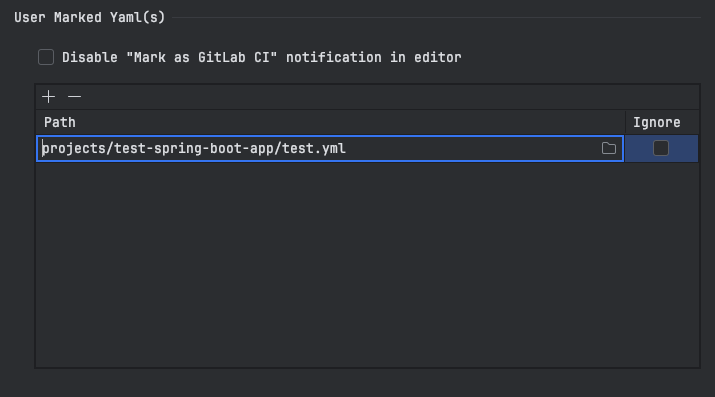
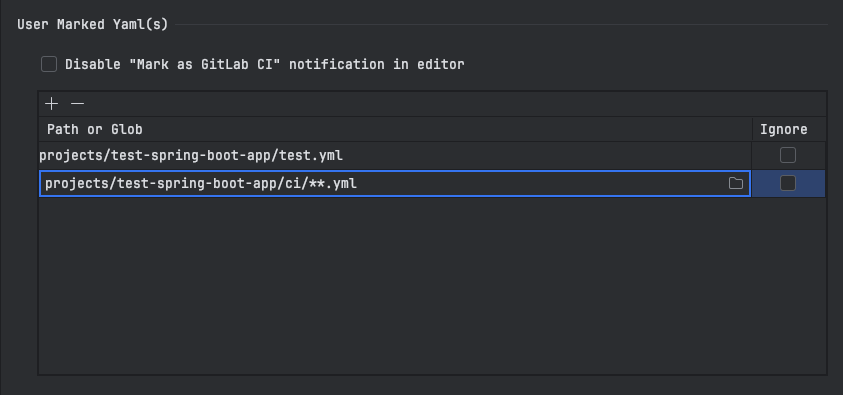
feat: globs for marking multiple files as ci yaml

Changed region(s): [[0.0308, 0.243, 0.9846, 0.5165], [0.0308, 0.1215, 0.6462, 0.1823], [0.0, 0.0304, 0.2462, 0.0911]]

diff --git a/src/main/java/com/github/deeepamin/ciaid/settings/CIAidSettingsConfigurable.java b/src/main/java/com/github/deeepamin/ciaid/settings/CIAidSettingsConfigurable.java
@@ -2,6 +2,8 @@ package com.github.deeepamin.ciaid.settings;
 
 import com.github.deeepamin.ciaid.CIAidBundle;
 import com.github.deeepamin.ciaid.services.CIAidProjectService;
+import com.github.deeepamin.ciaid.utils.CIAidUtils;
+import com.github.deeepamin.ciaid.utils.FileUtils;
 import com.intellij.openapi.options.Configurable;
 import com.intellij.openapi.project.Project;
 import com.intellij.openapi.ui.ComponentValidator;
@@ -11,6 +13,7 @@ import com.intellij.openapi.vfs.LocalFileSystem;
 import com.intellij.openapi.vfs.VirtualFile;
 import com.intellij.psi.PsiManager;
 import com.intellij.ui.ContextHelpLabel;
+import com.intellij.ui.EditorNotifications;
 import com.intellij.ui.TitledSeparator;
 import com.intellij.ui.ToolbarDecorator;
 import com.intellij.ui.components.JBCheckBox;
@@ -132,7 +135,7 @@ public class CIAidSettingsConfigurable implements Configurable {
     editorNotificationDisabledCheckBox.setBorder(BorderFactory.createEmptyBorder(10, 0, 10, 0));
     editorNotificationDisabledCheckBox.setSelected(CIAidSettingsState.getInstance(project).isEditorNotificationDisabled());
 
-    DefaultTableModel tableModel = new DefaultTableModel(new Object[]{CIAidBundle.message("settings.user.yamls.table.path-column"), CIAidBundle.message("settings.user.yamls.table.ignore-column")}, 0) {
+    DefaultTableModel tableModel = new DefaultTableModel(new Object[]{CIAidBundle.message("settings.user.yamls.table.path-or-glob-column"), CIAidBundle.message("settings.user.yamls.table.ignore-column")}, 0) {
     };
 
     userMarkedFilesTable = new JBTable(tableModel);
@@ -189,18 +192,6 @@ public class CIAidSettingsConfigurable implements Configurable {
     return yamlToUserMarkings;
   }
 
-  private void handleFile(VirtualFile virtualFile, boolean ignore) {
-    var projectService = CIAidProjectService.getInstance(project);
-    if (ignore) {
-      CIAidProjectService.ignoreCIYamlFile(virtualFile, project);
-      projectService.getPluginData().remove(virtualFile);
-    } else {
-      CIAidProjectService.markAsUserCIYamlFile(virtualFile, project);
-      projectService.readGitlabCIYamlData(virtualFile, true, false);
-    }
-    refreshVirtualFile(virtualFile);
-  }
-
   private void refreshVirtualFile(VirtualFile virtualFile) {
     virtualFile.refresh(true, false);
   }
@@ -222,32 +213,61 @@ public class CIAidSettingsConfigurable implements Configurable {
 
     PsiManager.getInstance(project).dropPsiCaches();
     removedFiles.forEach(path -> {
-      var virtualFile = LocalFileSystem.getInstance().findFileByPath(path);
-      if (virtualFile != null) {
-        var projectService = CIAidProjectService.getInstance(project);
-        CIAidProjectService.removeMarkingOfUserCIYamlFile(virtualFile);
-        projectService.getPluginData().remove(virtualFile);
-        refreshVirtualFile(virtualFile);
+      var pathContainsWildcard = CIAidUtils.containsWildcard(path);
+      if (pathContainsWildcard) {
+        var matchingFiles = FileUtils.findVirtualFilesByGlob(path, project);
+        matchingFiles.forEach(this::doRemoveVirtualFile);
+      } else {
+        var virtualFile = LocalFileSystem.getInstance().findFileByPath(path);
+        if (virtualFile != null) {
+          doRemoveVirtualFile(virtualFile);
+        }
       }
       ciaidSettingsState.getYamlToUserMarkings().remove(path);
     });
     removedFiles.clear();
 
     getYamlToUserMarkings().forEach((path, markOrIgnore) -> {
-      var virtualFile = LocalFileSystem.getInstance().findFileByPath(path);
-      if (virtualFile == null) {
-        return;
-      }
-      if (ciaidSettingsState.getYamlToUserMarkings().containsKey(path)) {
-        var markOrIgnoreFromState = ciaidSettingsState.getYamlToUserMarkings().get(path);
-        if (markOrIgnore != markOrIgnoreFromState) {
-          handleFile(virtualFile, markOrIgnore);
-        }
+      var pathContainsWildcard = CIAidUtils.containsWildcard(path);
+      if (pathContainsWildcard) {
+        var matchingFiles = FileUtils.findVirtualFilesByGlob(path, project);
+        matchingFiles.forEach(file -> doReadVirtualFile(path, markOrIgnore != null ? markOrIgnore : false, file));
       } else {
-        handleFile(virtualFile, markOrIgnore);
+        var virtualFile = LocalFileSystem.getInstance().findFileByPath(path);
+        if (virtualFile != null) {
+          doReadVirtualFile(path, markOrIgnore != null ? markOrIgnore : false, virtualFile);
+        }
       }
     });
     ciaidSettingsState.setYamlToUserMarkings(getYamlToUserMarkings());
+  }
+
+  private void doReadVirtualFile(String path, Boolean markOrIgnore, VirtualFile virtualFile) {
+    var ciAidSettingsState = CIAidSettingsState.getInstance(project);
+
+    if (ciAidSettingsState.getYamlToUserMarkings().containsKey(path)) {
+      var markOrIgnoreFromState = ciAidSettingsState.getYamlToUserMarkings().get(path);
+      if (markOrIgnore.equals(markOrIgnoreFromState)) {
+        return;
+      }
+    }
+    var projectService = CIAidProjectService.getInstance(project);
+    if (markOrIgnore) {
+      CIAidProjectService.ignoreCIYamlFile(virtualFile, project);
+      projectService.getPluginData().remove(virtualFile);
+    } else {
+      CIAidProjectService.markAsUserCIYamlFile(virtualFile, project);
+      projectService.readGitlabCIYamlData(virtualFile, true, false);
+      EditorNotifications.getInstance(project).updateNotifications(virtualFile);
+    }
+    refreshVirtualFile(virtualFile);
+  }
+
+  private void doRemoveVirtualFile(VirtualFile virtualFile) {
+    var projectService = CIAidProjectService.getInstance(project);
+    CIAidProjectService.removeMarkingOfUserCIYamlFile(virtualFile);
+    projectService.getPluginData().remove(virtualFile);
+    refreshVirtualFile(virtualFile);
   }
 
   @Override

diff --git a/src/main/java/com/github/deeepamin/ciaid/services/CIAidProjectService.java b/src/main/java/com/github/deeepamin/ciaid/services/CIAidProjectService.java
@@ -3,6 +3,8 @@ package com.github.deeepamin.ciaid.services;
 import com.github.deeepamin.ciaid.model.CIAidYamlData;
 import com.github.deeepamin.ciaid.services.listeners.CIAidPsiTreeChangeListener;
 import com.github.deeepamin.ciaid.settings.CIAidSettingsState;
+import com.github.deeepamin.ciaid.utils.CIAidUtils;
+import com.github.deeepamin.ciaid.utils.FileUtils;
 import com.intellij.openapi.Disposable;
 import com.intellij.openapi.application.ApplicationManager;
 import com.intellij.openapi.components.Service;
@@ -156,15 +158,25 @@ public final class CIAidProjectService implements DumbAware, Disposable {
   private void readUserMarkedYamls() {
     final var ciAidSettingsState = CIAidSettingsState.getInstance(project);
     ciAidSettingsState.getYamlToUserMarkings().forEach((path, ignore) -> {
-      final var gitlabCIYamlFile = LocalFileSystem.getInstance().findFileByPath(path);
-      if (gitlabCIYamlFile != null) {
-        if (ignore) {
-          ignoreCIYamlFile(gitlabCIYamlFile, project);
-          return;
+      var pathContainsWildcard = CIAidUtils.containsWildcard(path);
+      if (pathContainsWildcard) {
+        var matchingFiles = FileUtils.findVirtualFilesByGlob(path, project);
+        matchingFiles.forEach(file -> doReadUserMarkedYaml(file, ignore));
+      } else {
+        final var gitlabCIYamlFile = LocalFileSystem.getInstance().findFileByPath(path);
+        if (gitlabCIYamlFile != null) {
+          doReadUserMarkedYaml(gitlabCIYamlFile, ignore);
         }
-        readGitlabCIYamlData(gitlabCIYamlFile, true, false);
       }
     });
+  }
+
+  private void doReadUserMarkedYaml(VirtualFile virtualFile, boolean ignore) {
+    if (ignore) {
+      ignoreCIYamlFile(virtualFile, project);
+      return;
+    }
+    readGitlabCIYamlData(virtualFile, true, false);
   }
 
   @Override

diff --git a/src/main/java/com/github/deeepamin/ciaid/utils/FileUtils.java b/src/main/java/com/github/deeepamin/ciaid/utils/FileUtils.java
@@ -72,11 +72,15 @@ public class FileUtils {
       return result;
     }
     try {
-      Path root = Path.of(basePath);
-      String normalizedPattern = globPattern.replace("\\", "/");
+      String normalizedPattern = globPattern;
+      if (normalizedPattern.startsWith(basePath)) {
+        normalizedPattern = normalizedPattern.substring(basePath.length());
+      }
+      normalizedPattern = normalizedPattern.replace("\\", "/");
       if (normalizedPattern.startsWith("/")) {
         normalizedPattern = normalizedPattern.substring(1);
       }
+      Path root = Path.of(basePath);
       PathMatcher matcher = root.getFileSystem().getPathMatcher("glob:" + normalizedPattern);
       try (var paths = Files.walk(root)) {
         paths.filter(Files::isRegularFile)

diff --git a/docs/docs/configuration/general.md b/docs/docs/configuration/general.md
@@ -21,6 +21,10 @@ The files can be added in the table with `+` button, removed with `-` button, an
 For adding the file, you can either type the file path in the text field or use the `Browse` button to select the file from the project.
 Added file paths (ignored or not) don't show editor notification, if enabled, to mark them as GitLab CI YAML files.
 
+### Multiple files with globs
+You can use glob patterns to mark multiple files same way as adding/removing files. Absolute path or path relative to the project root can be used for globs.
+The glob patterns follow the GitLab CI/CD wildcard includes syntax [Include with wildcard](https://docs.gitlab.com/ci/yaml/includes/#use-includelocal-with-wildcard-file-paths)
+
 ### Disable editor notification
 If you want to disable the editor notification for marking files as GitLab CI YAML, you can check the `Disable "Mark as GitLab CI" notification in editor` checkbox.
 

diff --git a/docs/docs/changelog.md b/docs/docs/changelog.md
@@ -14,6 +14,7 @@ hide_table_of_contents: false
 ### Added
 
 - Support for wildcard (*) includes
+- Support for marking multiple files with globs in settings
 
 ## [1.12.0] - 2025-07-05
 
